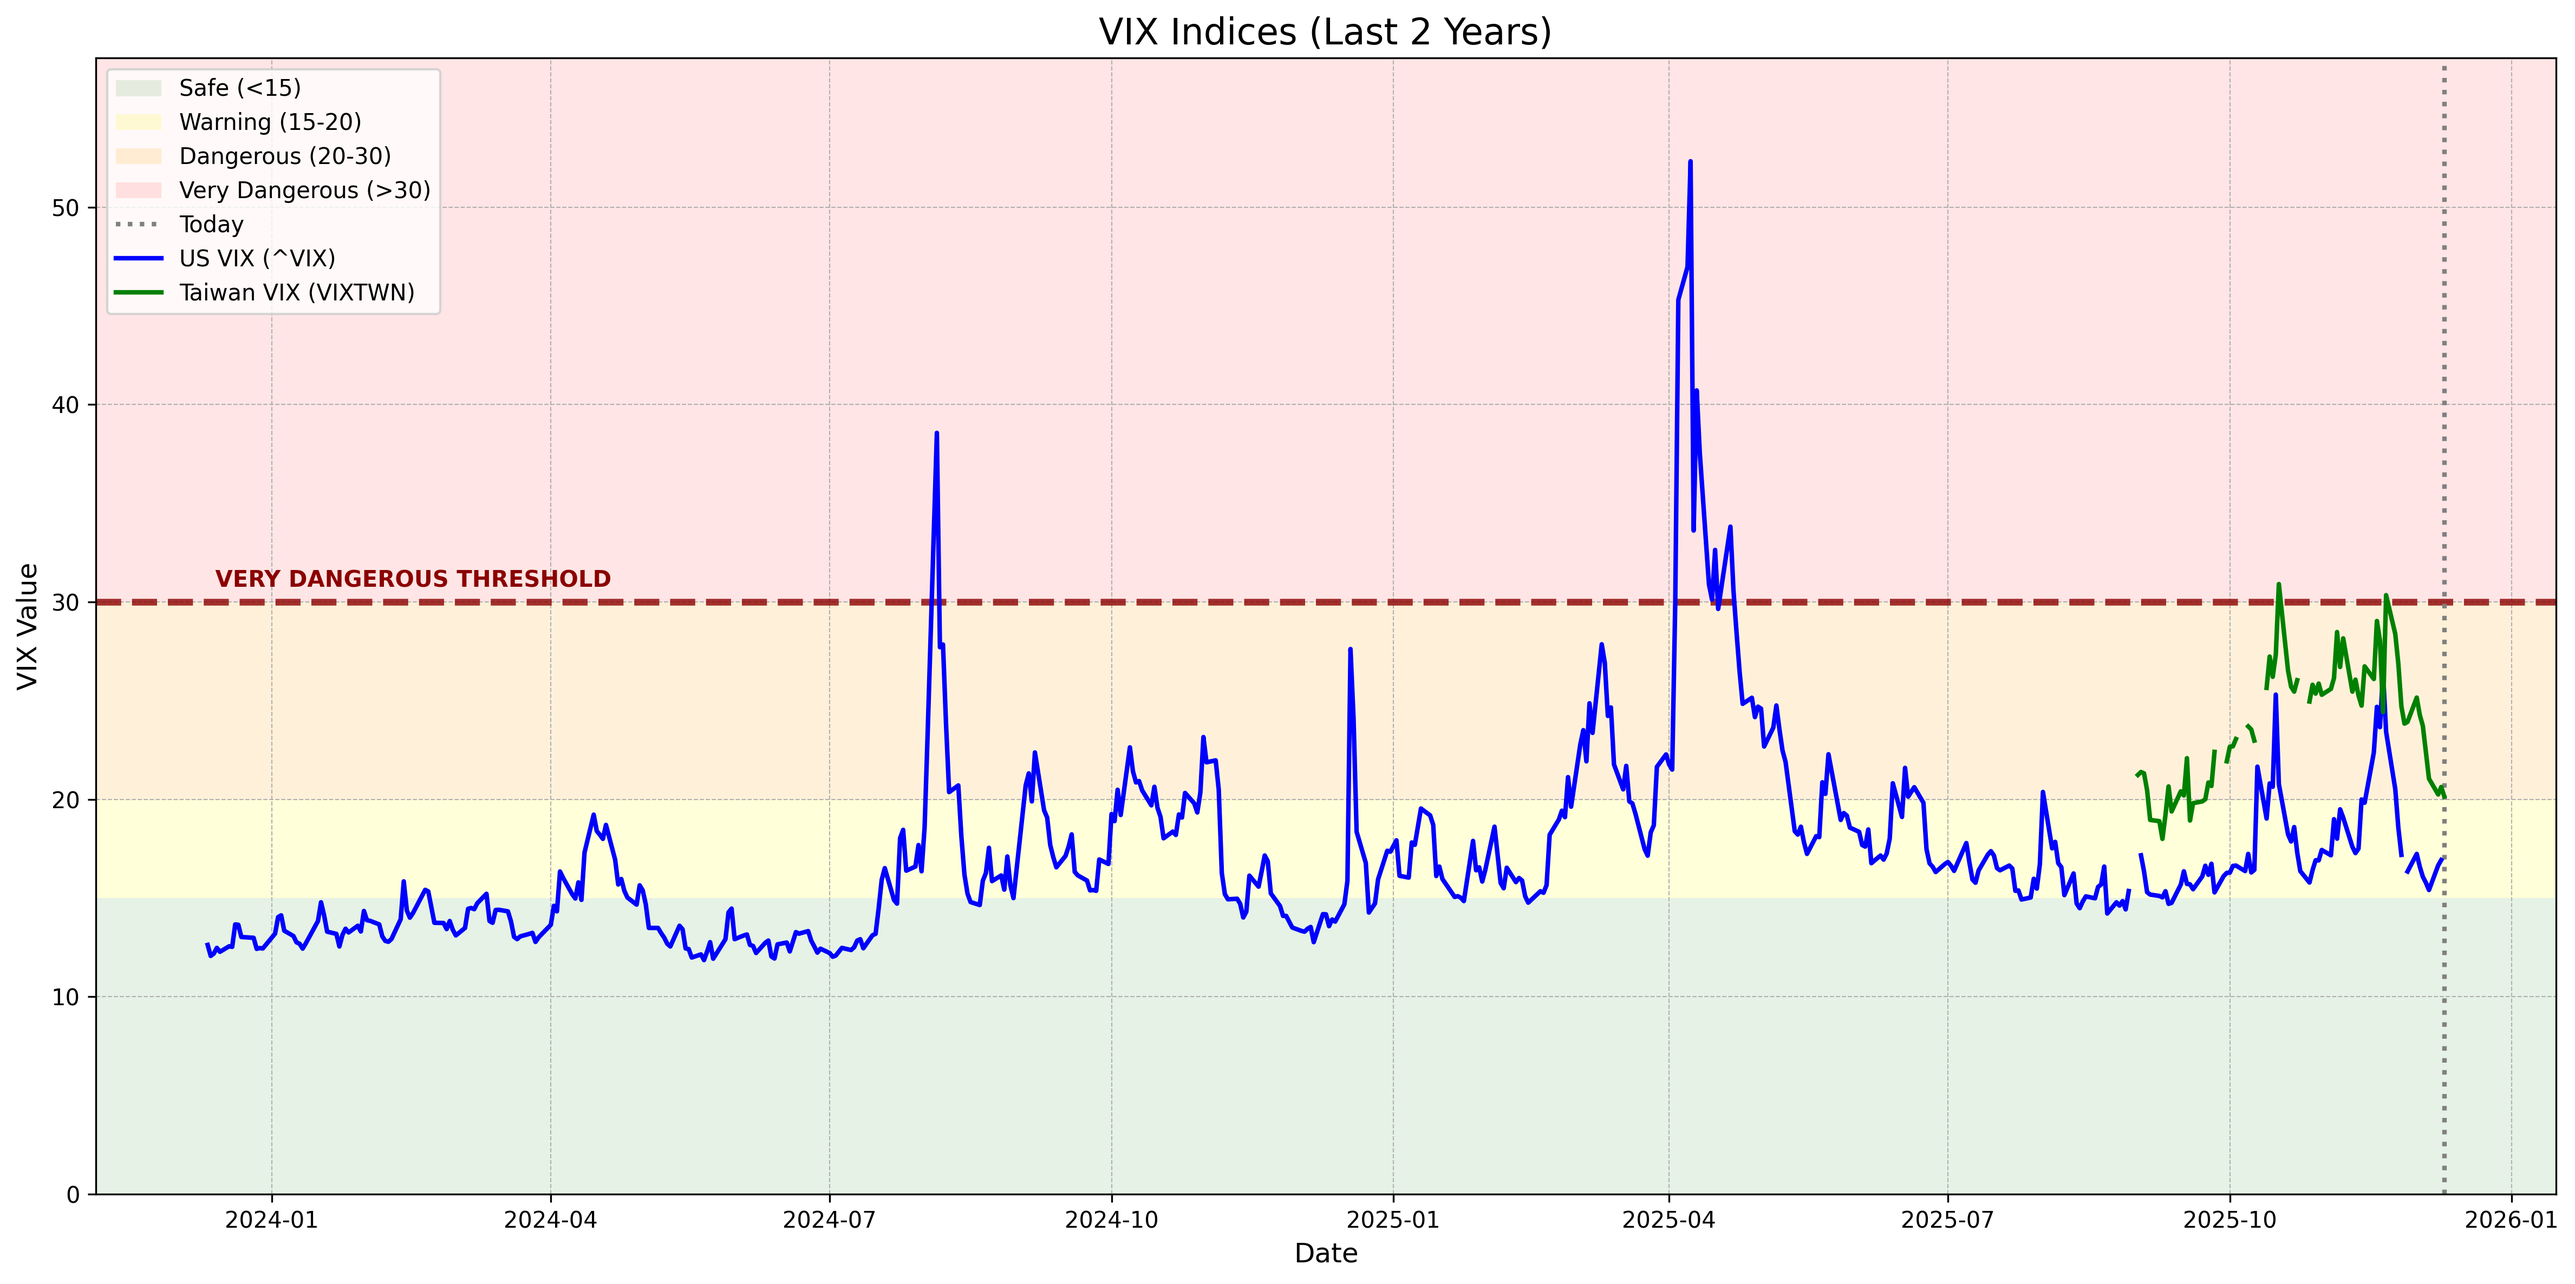
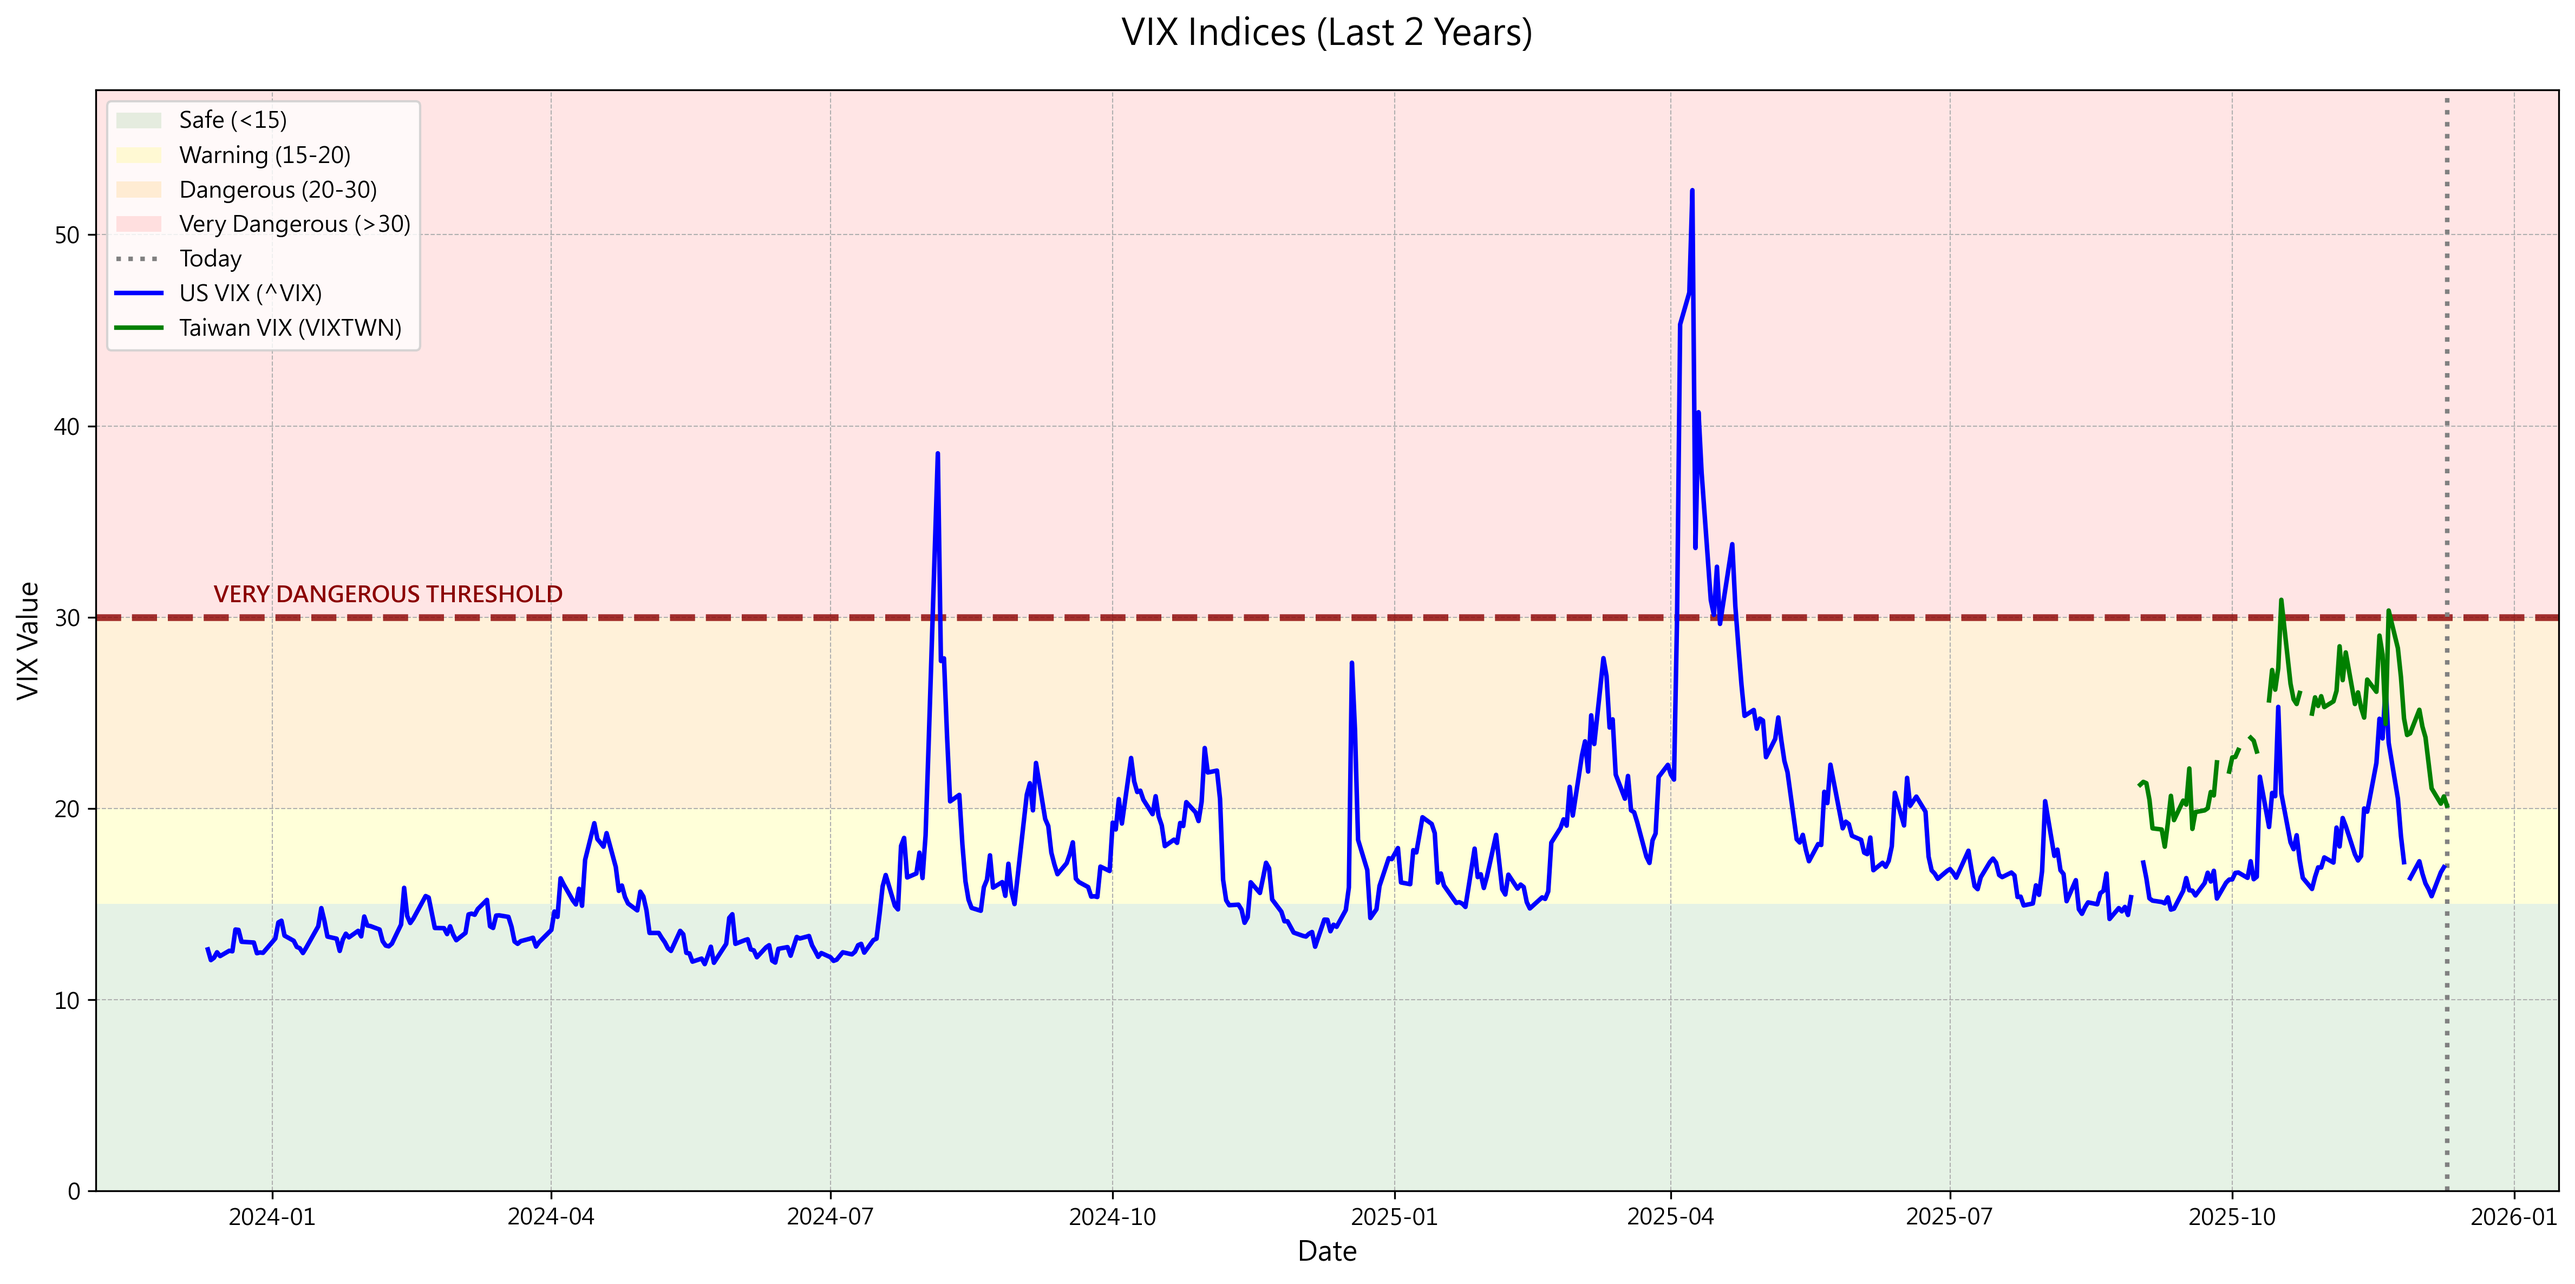
feat: Move timestamp from PNG to README and add Taipei timezone support
- Updated GitHub Actions workflow to use Asia/Taipei timezone
- Moved timestamp from PNG image to README.md (displayed above chart)
- Added Chinese font support to visualize_vix.py for proper character display
- Enhanced update_current_vix.py to inject timestamp in README before PNG
- Added pytz to requirements.txt for timezone handling
- Regenerated vix_chart.png without embedded timestamp

🤖 Generated with [Claude Code](https://claude.com/claude-code)

diff --git a/update_current_vix.py b/update_current_vix.py
@@ -1,12 +1,14 @@
 import yfinance as yf
 import pandas as pd
 import re
+from datetime import datetime
+import pytz
 
 def get_latest_us_vix():
     try:
         vix = yf.Ticker("^VIX")
         # Fetching the last day's data
-        df = vix.history(period="1d") 
+        df = vix.history(period="1d")
         if not df.empty:
             latest_close = df['Close'].iloc[0]
             return f"{latest_close:.2f}"
@@ -17,17 +19,28 @@ def get_latest_us_vix():
 
 def update_readme_with_vix(vix_value):
     readme_path = "README.md"
-    
+
     with open(readme_path, 'r', encoding='utf-8') as f:
         content = f.read()
-    
+
     # Replace the placeholder with the actual value
     new_content = re.sub(r'<!-- LATEST_US_VIX_DATA -->', f'**{vix_value}**', content)
-    
+
+    # Generate timestamp in CST
+    cst = pytz.timezone('Asia/Taipei')
+    timestamp = datetime.now(cst).strftime('%Y-%m-%d %H:%M:%S CST')
+    timestamp_line = f'產生時間: {timestamp}\n\n'
+
+    # Replace existing timestamp or add new one before the PNG
+    # Pattern: Find any existing timestamp line before the PNG, or just the PNG line itself
+    png_pattern = r'(產生時間: .*?\n\n)?(\!\[VIX Chart\]\(vix_chart\.png\))'
+    new_content = re.sub(png_pattern, timestamp_line + r'![VIX Chart](vix_chart.png)', new_content)
+
     with open(readme_path, 'w', encoding='utf-8') as f:
         f.write(new_content)
-    
+
     print(f"Updated README.md with latest US VIX: {vix_value}")
+    print(f"Updated README.md with timestamp: {timestamp}")
 
 if __name__ == "__main__":
     print("Fetching latest US VIX data...")

diff --git a/visualize_vix.py b/visualize_vix.py
@@ -3,6 +3,17 @@ import matplotlib.pyplot as plt
 import os
 import yfinance as yf
 from datetime import datetime, timedelta
+import matplotlib
+import platform
+
+# Configure Chinese font support
+if platform.system() == 'Windows':
+    matplotlib.rcParams['font.sans-serif'] = ['Microsoft JhengHei', 'Microsoft YaHei', 'SimHei', 'Arial Unicode MS']
+elif platform.system() == 'Linux':
+    matplotlib.rcParams['font.sans-serif'] = ['Noto Sans CJK TC', 'Noto Sans CJK SC', 'WenQuanYi Micro Hei', 'Arial Unicode MS']
+else:  # macOS
+    matplotlib.rcParams['font.sans-serif'] = ['Heiti TC', 'PingFang TC', 'Arial Unicode MS']
+matplotlib.rcParams['axes.unicode_minus'] = False  # Fix minus sign display
 
 # Configuration
 csv_file = "global_vix_merged.csv"
@@ -79,7 +90,7 @@ def plot_vix(df):
         else:
             plt.plot(df_filtered.index, df_filtered[col], label=col, linewidth=2.0)
 
-    plt.title(f'VIX Indices (Last {years_back} Years)', fontsize=16)
+    plt.title(f'VIX Indices (Last {years_back} Years)', fontsize=16, pad=20)
     plt.xlabel('Date', fontsize=12)
     plt.ylabel('VIX Value', fontsize=12)
     

diff --git a/README.md b/README.md
@@ -39,6 +39,8 @@ python collect_vix_data.py
 
 ### Historical Trend (Last 2 Years)
 
+產生時間: 2025-12-10 22:53:11 CST
+
 ![VIX Chart](vix_chart.png)
 
 ## Data Sources & Instructions
